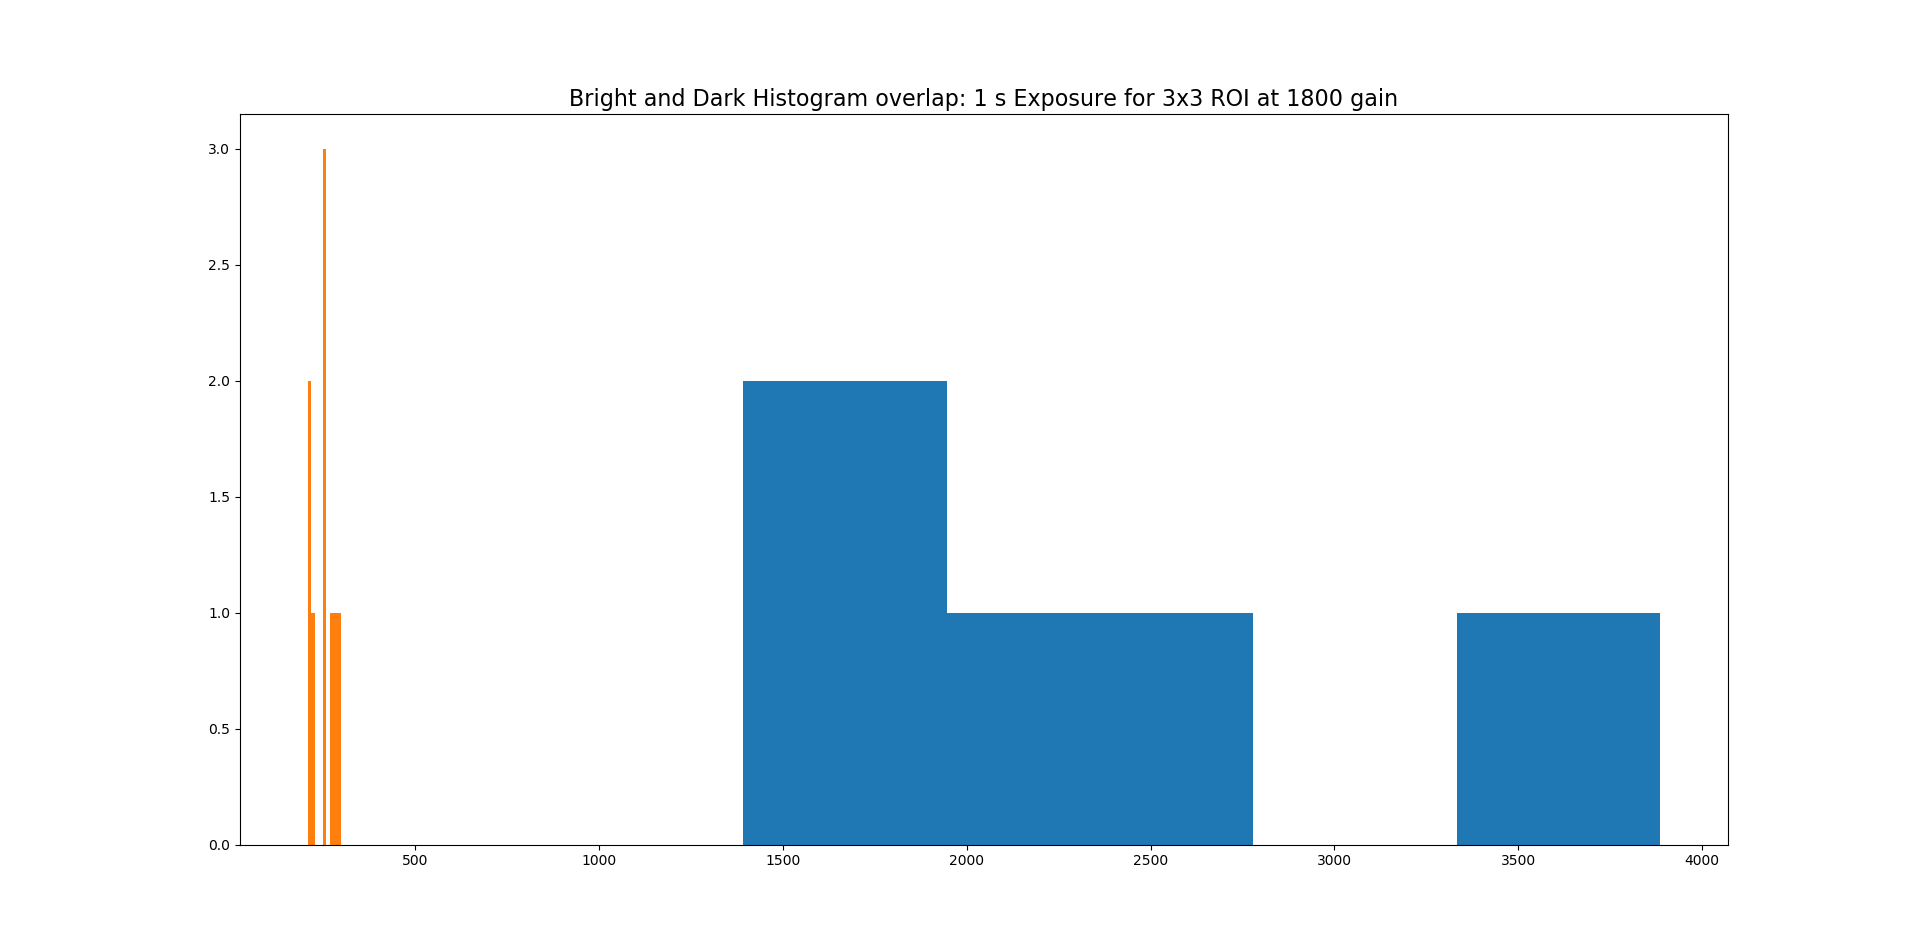
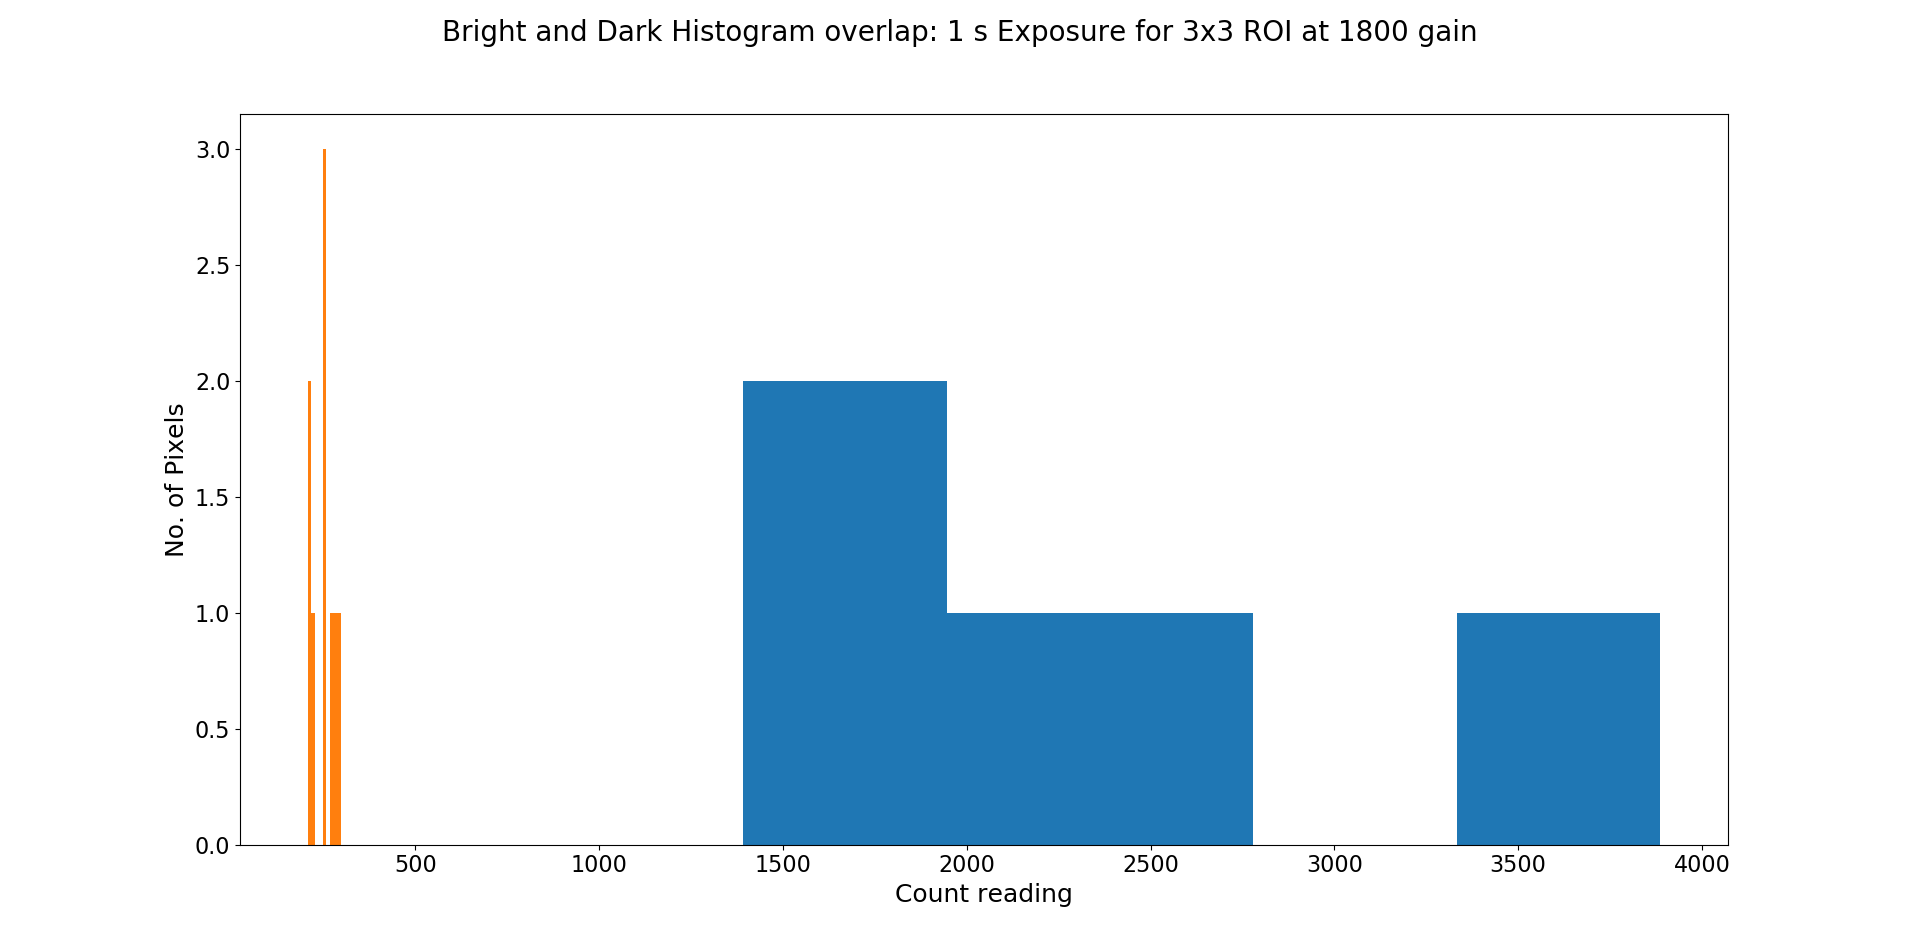
increased tick and label size for 5x5 ROI plots

diff --git a/ROI_test_single_ion/Section_image/2019_07_16_data/ROI_analysis_5x5_image.py b/ROI_test_single_ion/Section_image/2019_07_16_data/ROI_analysis_5x5_image.py
@@ -2,7 +2,7 @@
 """
 Created on Sun Jun  9 16:45:08 2019
 
-@author: IonTrap/JMHeinrich
+@author: IonTrap/JMHeinrich, YWu
 """
    
 import pandas as pd
@@ -87,8 +87,8 @@ df15.drop(df15.columns[0], axis=1, inplace=True)           #delete first column
 
 
 '''
-plt.figure('5 s Exposure Bright Ion')
-plt.title('5 s Exposure Bright Ion', fontsize=16)
+plt.figure('1 s Exposure Bright Ion')
+plt.title('1 s Exposure Bright Ion', fontsize=16)
 plt.imshow(df, origin='lower')
 
 plt.figure('5 s Exposure Dark Ion')
@@ -201,9 +201,9 @@ list48 = list(reversed(list47))
 
 
 
-l1 = [0,1,2,3]
-l2 = [1,2,3,4]
-''''''
+l1 = [1,2,3]
+l2 = [1,2,3]
+'''
 #bright
 a = np.mean([df.iat[i,j] for i in l1 for j in l2])     #1 sec
 b = np.mean([df2.iat[i,j] for i in l1 for j in l2])    #0.5 sec
@@ -229,12 +229,14 @@ diff = [a-a1,b-b1,c-c1,d-d1,e-e1,f-f1,g-g1,h-h1]
 t = [1,0.5,0.1,0.05,0.04,0.03,0.02,0.01]
 
 
-plt.figure('Difference between mean bright ion and dark ion reading vs Exposure time with 4x4 ROI')
-plt.title('Difference between mean bright ion and dark ion reading vs Exposure time with 4x4 ROI', fontsize=20)
-plt.plot(t,diff,'.')
-plt.ylabel('Count reading')
-plt.xlabel('Exposure time/s')
-
+fig = plt.figure('Difference between mean bright ion and dark ion reading vs Exposure time with 3x3 ROI')
+fig.suptitle('Difference between mean bright ion and dark ion reading vs Exposure time with 3x3 ROI', fontsize=20)
+axes = fig.add_subplot(111)
+axes.plot(t,diff,'.')
+axes.tick_params(axis = 'both', labelsize =16)
+plt.ylabel('Count reading', fontsize=18)
+plt.xlabel('Exposure time/s', fontsize=18)
+'''
 '''
 #1 sec
 r = []
@@ -257,6 +259,9 @@ ax = fig.add_subplot(111)
 ax.plot(c,r, '.')
 ax.set_xlim((0,5))
 ax.set_ylim((0,5))
+plt.xlabel('x',fontsize=18)
+plt.ylabel('y',fontsize=18)
+ax.tick_params(axis='both', labelsize = 16)
 ax.set_aspect('equal')
 
 
@@ -282,6 +287,9 @@ ax1 = fig1.add_subplot(111)
 ax1.plot(c1,r1, '.')
 ax1.set_xlim((0,5))
 ax1.set_ylim((0,5))
+plt.xlabel('x',fontsize=18)
+plt.ylabel('y',fontsize=18)
+ax1.tick_params(axis='both', labelsize = 16)
 ax1.set_aspect('equal')
 
   
@@ -307,6 +315,9 @@ ax2 = fig2.add_subplot(111)
 ax2.plot(c2,r2, '.')
 ax2.set_xlim((0,5))
 ax2.set_ylim((0,5))
+plt.xlabel('x',fontsize=18)
+plt.ylabel('y',fontsize=18)
+ax2.tick_params(axis='both', labelsize = 16)
 ax2.set_aspect('equal')
 
 
@@ -332,6 +343,9 @@ ax3 = fig3.add_subplot(111)
 ax3.plot(c3,r3, '.')
 ax3.set_xlim((0,5))
 ax3.set_ylim((0,5))
+plt.xlabel('x',fontsize=18)
+plt.ylabel('y',fontsize=18)
+ax3.tick_params(axis='both', labelsize = 16)
 ax3.set_aspect('equal')   
 
 
@@ -357,6 +371,9 @@ ax4 = fig4.add_subplot(111)
 ax4.plot(c4,r4, '.')
 ax4.set_xlim((0,5))
 ax4.set_ylim((0,5))
+plt.xlabel('x',fontsize=18)
+plt.ylabel('y',fontsize=18)
+ax4.tick_params(axis='both', labelsize = 16)
 ax4.set_aspect('equal')          
 
 
@@ -382,6 +399,9 @@ ax5 = fig5.add_subplot(111)
 ax5.plot(c5,r5, '.')
 ax5.set_xlim((0,5))
 ax5.set_ylim((0,5))
+plt.xlabel('x',fontsize=18)
+plt.ylabel('y',fontsize=18)
+ax5.tick_params(axis='both', labelsize = 16)
 ax5.set_aspect('equal')      
 
 
@@ -407,6 +427,9 @@ ax6 = fig6.add_subplot(111)
 ax6.plot(c6,r6, '.')
 ax6.set_xlim((0,5))
 ax6.set_ylim((0,5))
+plt.xlabel('x',fontsize=18)
+plt.ylabel('y',fontsize=18)
+ax6.tick_params(axis='both', labelsize = 16)
 ax6.set_aspect('equal') 
 
 
@@ -432,6 +455,9 @@ ax7 = fig7.add_subplot(111)
 ax7.plot(c7,r7, '.')
 ax7.set_xlim((0,5))
 ax7.set_ylim((0,5))
+plt.xlabel('x',fontsize=18)
+plt.ylabel('y',fontsize=18)
+ax7.tick_params(axis='both', labelsize = 16)
 ax7.set_aspect('equal')       
 '''
 
@@ -458,46 +484,77 @@ g3 = [df13.iat[i,j] for i in l1 for j in l2]  #20 ms
 h3 = [df15.iat[i,j] for i in l1 for j in l2]  #10 ms
 
 
-plt.figure('Histogram for 1 s Exposure for 4x4 ROI at 1800 gain')
-plt.title('Bright and Dark Histogram overlap: 1 s Exposure for 4x4 ROI at 1800 gain', fontsize=16)
-plt.hist(a2, bins = 9)
-plt.hist(a3, bins = 9)
+fi = plt.figure('Histogram for 1 s Exposure for 3x3 ROI at 1800 gain')
+fi.suptitle('Bright and Dark Histogram overlap: 1 s Exposure for 3x3 ROI at 1800 gain', fontsize=20)
+axe = fi.add_subplot(111)
+axe.hist(a2, bins = 9)
+axe.hist(a3, bins = 9)
+axe.tick_params(axis='both', labelsize = 16)
+plt.xlabel('Count reading', fontsize=18)
+plt.ylabel('No. of Pixels', fontsize=18)
 
-plt.figure('Histogram for 0.5 s Exposure for 4x4 ROI at 1800 gain')
-plt.title('Bright and Dark Histogram overlap: 0.5 s Exposure for 4x4 ROI at 1800 gain', fontsize=16)
-plt.hist(b2, bins = 9)
-plt.hist(b3, bins = 9)
+fi1 = plt.figure('Histogram for 0.5 s Exposure for 3x3 ROI at 1800 gain')
+fi1.suptitle('Bright and Dark Histogram overlap: 0.5 s Exposure for 3x3 ROI at 1800 gain', fontsize=20)
+axe1 = fi1.add_subplot(111)
+axe1.hist(b2, bins = 9)
+axe1.hist(b3, bins = 9)
+axe1.tick_params(axis='both', labelsize = 16)
+plt.xlabel('Count reading', fontsize=18)
+plt.ylabel('No. of Pixels', fontsize=18)
 
-plt.figure('Histogram for 0.1 s Exposure for 4x4 ROI at 1800 gain')
-plt.title('Bright and Dark Histogram overlap: 0.1 s Exposure for 4x4 ROI at 1800 gain', fontsize=16)
-plt.hist(c2, bins = 9)
-plt.hist(c3, bins = 9)
+fi2 = plt.figure('Histogram for 0.1 s Exposure for 3x3 ROI at 1800 gain')
+fi2.suptitle('Bright and Dark Histogram overlap: 0.1 s Exposure for 3x3 ROI at 1800 gain', fontsize=20)
+axe2 = fi2.add_subplot(111)
+axe2.hist(c2, bins = 9)
+axe2.hist(c3, bins = 9)
+axe2.tick_params(axis='both', labelsize = 16)
+plt.xlabel('Count reading', fontsize=18)
+plt.ylabel('No. of Pixels', fontsize=18)
 
-plt.figure('Histogram for 50 ms Exposure for 4x4 ROI at 1800 gain')
-plt.title('Bright and Dark Histogram overlap: 50 ms Exposure for 4x4 ROI at 1800 gain', fontsize=16)
-plt.hist(d2, bins = 9)
-plt.hist(d3, bins = 9)
+fi3 =plt.figure('Histogram for 50 ms Exposure for 3x3 ROI at 1800 gain')
+fi3.suptitle('Bright and Dark Histogram overlap: 50 ms Exposure for 3x3 ROI at 1800 gain', fontsize=20)
+axe3 = fi3.add_subplot(111)
+axe3.hist(d2, bins = 9)
+axe3.hist(d3, bins = 9)
+axe3.tick_params(axis='both', labelsize = 16)
+plt.xlabel('Count reading', fontsize=18)
+plt.ylabel('No. of Pixels', fontsize=18)
 
-plt.figure('Histogram for 40 ms Exposure for 4x4 ROI at 1800 gain')
-plt.title('Bright and Dark Histogram overlap: 40 ms Exposure for 4x4 ROI at 1800 gain', fontsize=16)
-plt.hist(e2, bins = 9)
-plt.hist(e3, bins = 9)
+fi4 = plt.figure('Histogram for 40 ms Exposure for 3x3 ROI at 1800 gain')
+fi4.suptitle('Bright and Dark Histogram overlap: 40 ms Exposure for 3x3 ROI at 1800 gain', fontsize=20)
+axe4 = fi4.add_subplot(111)
+axe4.hist(e2, bins = 9)
+axe4.hist(e3, bins = 9)
+axe4.tick_params(axis='both', labelsize = 16)
+plt.xlabel('Count reading', fontsize=18)
+plt.ylabel('No. of Pixels', fontsize=18)
+''''''
+fi5 = plt.figure('Histogram for 30 ms Exposure for 3x3 ROI at 1800 gain')
+fi5.suptitle('Bright and Dark Histogram overlap: 30 ms Exposure for 3x3 ROI at 1800 gain', fontsize=20)
+axe5 = fi5.add_subplot(111)
+axe5.hist(f2, bins = 9)
+axe5.hist(f3, bins = 9)
+axe5.tick_params(axis='both', labelsize = 16)
+plt.xlabel('Count reading', fontsize=18)
+plt.ylabel('No. of Pixels', fontsize=18)
 
-plt.figure('Histogram for 30 ms Exposure for 4x4 ROI at 1800 gain')
-plt.title('Bright and Dark Histogram overlap: 30 ms Exposure for 4x4 ROI at 1800 gain', fontsize=16)
-plt.hist(f2, bins = 9)
-plt.hist(f3, bins = 9)
+fi6 = plt.figure('Histogram for 20 ms Exposure for 3x3 ROI at 1800 gain')
+fi6.suptitle('Bright and Dark Histogram overlap: 20 ms Exposure for 3x3 ROI at 1800 gain', fontsize=20)
+axe6 = fi6.add_subplot(111)
+axe6.hist(g2, bins = 9)
+axe6.hist(g3, bins = 9)
+axe6.tick_params(axis='both', labelsize = 16)
+plt.xlabel('Count reading', fontsize=18)
+plt.ylabel('No. of Pixels', fontsize=18)
 
-plt.figure('Histogram for 20 ms Exposure for 4x4 ROI at 1800 gain')
-plt.title('Bright and Dark Histogram overlap: 20 ms Exposure for 4x4 ROI at 1800 gain', fontsize=16)
-plt.hist(g2, bins = 9)
-plt.hist(g3, bins = 9)
-
-plt.figure('Histogram for 10 ms Exposure for 4x4 ROI at 1800 gain')
-plt.title('Bright and Dark Histogram overlap: 10 ms Exposure for 4x4 ROI at 1800 gain', fontsize=16)
-plt.hist(h2, bins = 9)
-plt.hist(h3, bins = 9)
-
+fi7 =plt.figure('Histogram for 10 ms Exposure for 3x3 ROI at 1800 gain')
+fi7.suptitle('Bright and Dark Histogram overlap: 10 ms Exposure for 3x3 ROI at 1800 gain', fontsize=20)
+axe7 = fi7.add_subplot(111)
+axe7.hist(h2, bins = 9)
+axe7.hist(h3, bins = 9)
+axe7.tick_params(axis='both', labelsize = 16)
+plt.xlabel('Count reading', fontsize=18)
+plt.ylabel('No. of Pixels', fontsize=18)
 
 
 '''
